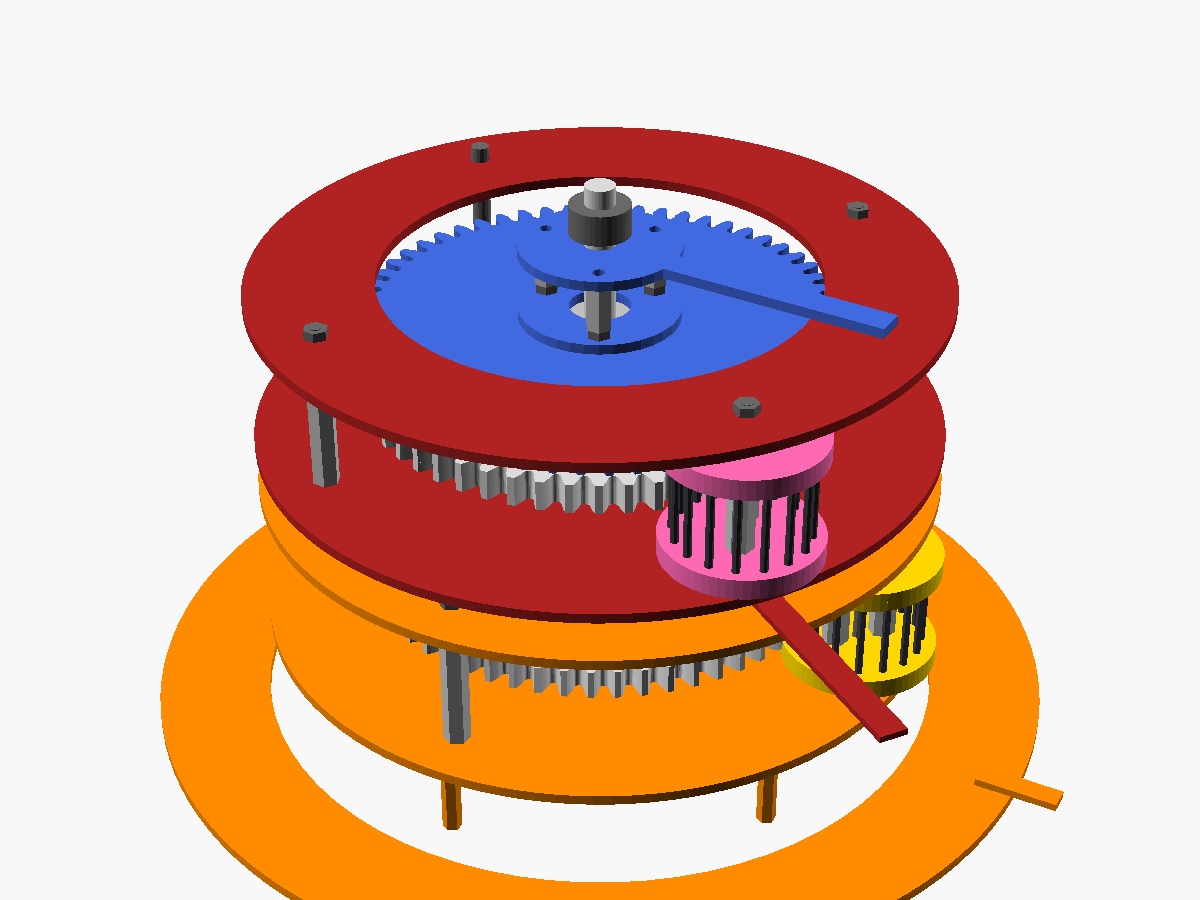
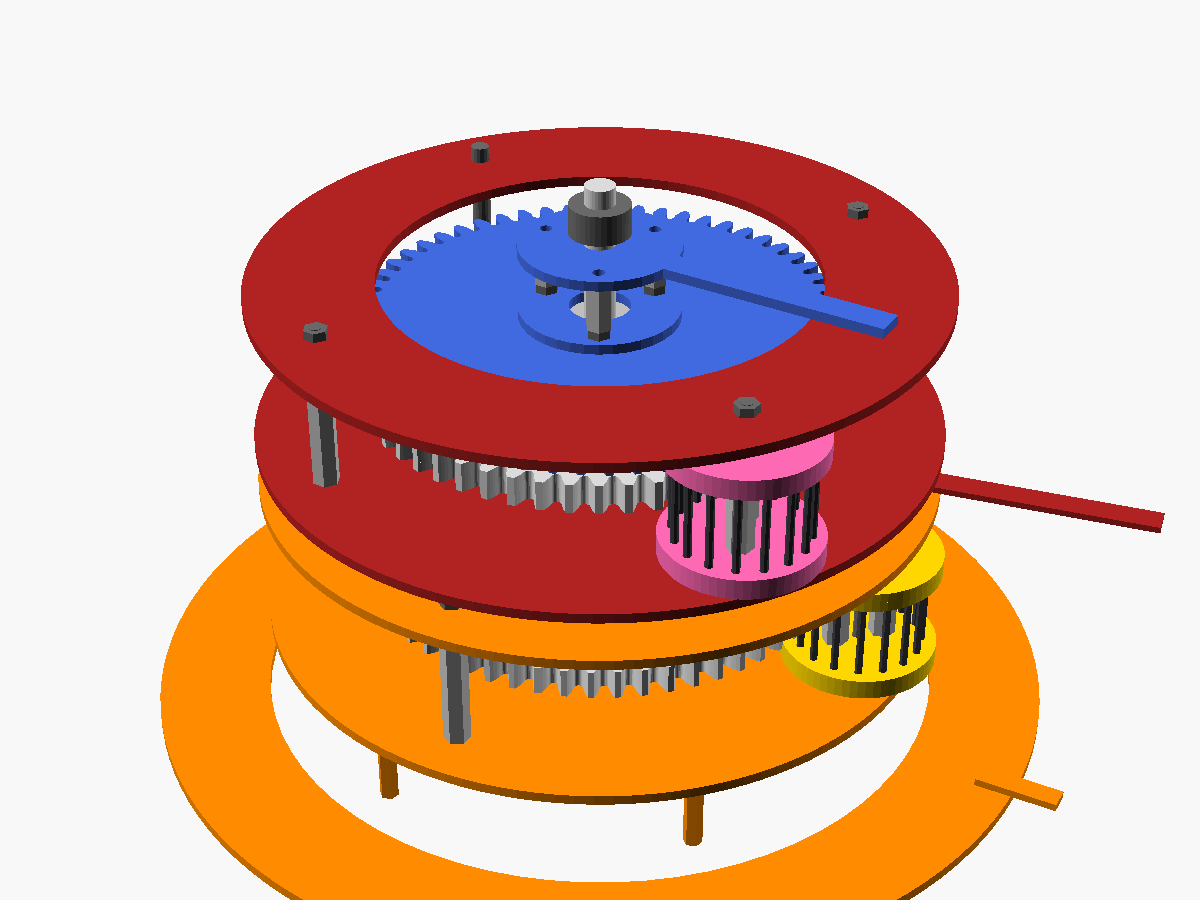
Clock train: ply3 parts script (suns x3 layers, carriers with lantern discs/covers/keepers nested inside), hands sketch
Claude-Session: https://claude.ai/code/session_01LQy87QnU21cWEAk5CN6jGY

diff --git a/marbles/clock/clock_train_parts.py b/marbles/clock/clock_train_parts.py
@@ -1,0 +1,185 @@
+#!/usr/bin/env python3
+"""Ply3 laser parts for the clock train (lantern version, clock_train.scad / clock_lantern.py), through quickcut.
+
+Files (marbles/gcode/), each zeroed at its bottom-left, W x H in the name = the real cut extent:
+  clock_sun_<stage>_<fixed|out>_cut3   one sun layer: cut it 3 times (3 identical layers per sun, M3-bolted)
+  clock_carrier_<stage>_back           back carrier + that stage's 2 lantern DISCS (pin holes) nested in its opening
+  clock_carrier_<stage>_front          front carrier + that stage's 2 lantern COVERS + 1 output-sun KEEPER ring nested inside
+Per stage: 3 + 3 sun layers, 2 carriers, 2 discs + 2 covers (one lantern), 2 keepers (one per side of the output sun:
+the front-carrier files give 2, one each).
+Hands are only sketched (views/clock_hands_sketch.png), no G-code yet.
+
+    python3 marbles/clock/clock_train_parts.py
+"""
+import math
+import sys
+from pathlib import Path
+
+from shapely import affinity
+from shapely.geometry import Point
+from shapely.ops import unary_union
+
+HERE = Path(__file__).resolve().parent
+sys.path.insert(0, str(HERE.parent))
+from laser_parts import gcode  # noqa: E402
+import clock_lantern as cl  # noqa: E402
+
+MAT = "ply3"
+A, P, TIE_D = cl.A, cl.P_PL, cl.TIE_D
+M3, M5, PIN_HOLE = 3.3, 5.3, cl.PIN_HOLE
+CAR_IN, CAR_OUT = 44.5, A + 14
+UP_R, ESC_R, MH_ANG = 50, 80, 45
+OUT = HERE.parent / "gcode"
+VIEWS = HERE.parent / "views"
+
+
+def circ(x, y, d, n=64):
+    return Point(x, y).buffer(d / 2, n)
+
+
+def polar(r, a_deg):
+    return r * math.cos(math.radians(a_deg)), r * math.sin(math.radians(a_deg))
+
+
+def holes(g, pts, d):
+    return g.difference(unary_union([circ(x, y, d, 24) for x, y in pts]))
+
+
+def sun_layer(g, kind, stage):
+    if kind == "fixed":
+        g = holes(g, [(0, 0)], 8.4)
+        return holes(g, [(sx * 15, sy * 27.5) for sx in (-1, 1) for sy in (-1, 1)], M3)          # 2 into the beam, 2 clamp
+    g = holes(g, [(0, 0)], 22.2)                                                                 # the 608
+    g = holes(g, [polar(16, 60 + 120 * k) for k in range(3)], M3)                                # keeper bolts
+    if stage == "minute":
+        g = holes(g, [polar(UP_R, 36 + 72 * k) for k in range(5)], M3)                           # standoffs to the hour carrier
+    return g
+
+
+def lantern_disc(rp, pins):
+    g = holes(circ(0, 0, 2 * cl_disc_r(), 128), [(0, 0)], 3.4)                                  # axle (it spins on it)
+    g = holes(g, [(0, -TIE_D), (0, TIE_D)], M3)                                                  # tie bolts
+    if pins:
+        g = holes(g, [polar(rp, k * 360 / P) for k in range(P)], PIN_HOLE)
+    return g
+
+
+def cl_disc_r():
+    return max(cl.pin_r(S) for S in cl.STAGES.values()) + PIN_HOLE / 2 + cl.RIM
+
+
+def keeper():
+    g = holes(circ(0, 0, 42, 128), [(0, 0)], 16)
+    return holes(g, [polar(16, 60 + 120 * k) for k in range(3)], M3)
+
+
+def carrier(stage, side):
+    rin = CAR_IN if side == "back" else A - cl_disc_r() + 1
+    g = circ(0, 0, 2 * CAR_OUT, 256).difference(circ(0, 0, 2 * rin, 256))
+    g = holes(g, [polar(A, a) for a in (0, 90, 270)], M3)                                        # planet axle, 2 tie posts
+    g = holes(g, [polar(A, 180)], M5)                                                            # counterweight bolt
+    if side == "back" and stage == "minute":
+        g = holes(g, [polar(ESC_R, 15 + 60 * k) for k in range(6)], M3)                          # escape wheel standoffs
+    if side == "back" and stage == "hour":
+        g = holes(g, [polar(UP_R, 36 + 72 * k) for k in range(5)], M3)                           # standoffs from the minute sun
+        g = holes(g, [polar(r, MH_ANG) for r in (54, 66)], M3)                                   # minute hand
+    return g, rin
+
+
+def write(stem_base, polys, note):
+    T, kerf, _ = gcode.fit(MAT)
+    job = gcode.job(MAT)
+    gs = [p.buffer(kerf / 2, join_style=2) for p in polys]
+    x0 = min(g.bounds[0] for g in gs); y0 = min(g.bounds[1] for g in gs)
+    x1 = max(g.bounds[2] for g in gs); y1 = max(g.bounds[3] for g in gs)
+    cuts = []
+    for g in gs:
+        cuts += [gcode.Polyline([(x - x0, y - y0) for x, y in r.coords], True) for r in g.interiors]
+        cuts.append(gcode.Polyline([(x - x0, y - y0) for x, y in g.exterior.coords], True))
+    cuts = gcode.order(cuts)
+    stem = gcode.name(stem_base, x1 - x0, y1 - y0, MAT)
+    lines = gcode.preamble(job, title=f"{stem} -- marbles/clock/clock_train_parts.py",
+                           notes=[note, f"{MAT}: T {T}, kerf {kerf}; X0 Y0 = bottom-left"])
+    for i, c in enumerate(cuts, 1):
+        lines += gcode.cut(c, job, i, len(cuts))
+    p = gcode.write(OUT / f"{stem}.gcode", lines)
+    print(f"  {p.name}: {len(cuts)} cuts, {x1 - x0:.2f} x {y1 - y0:.2f}")
+    return p, [affinity.translate(g, -x0, -y0) for g in polys]
+
+
+def main():
+    files = []
+    dr = cl_disc_r()
+    for name, S in cl.STAGES.items():
+        st = cl.stage(S)
+        rp = st["A"]["r"]
+        for kind, lay in (("fixed", "A"), ("out", "B")):
+            g = sun_layer(st[lay]["g"], kind, name)
+            files.append(write(f"clock_sun_{name}_{kind}{st[lay]['Z']}_cut3", [g],
+                               f"{name} {'FIXED' if kind == 'fixed' else 'OUTPUT'} sun, {st[lay]['Z']} teeth (lantern pins r {rp:.3f}): "
+                               f"one layer, cut 3"))
+        back, rin = carrier(name, "back")
+        d = 21.5                                                     # 2 discs side by side in the r 44.5 opening
+        assert d - dr > 1 and d + dr < rin - 2
+        discs = [affinity.translate(lantern_disc(rp, True), sx * d, 0) for sx in (-1, 1)]
+        files.append(write(f"clock_carrier_{name}_back", discs + [back],
+                           f"{name} BACK carrier + the 2 lantern DISCS ({P} pin holes on r {rp:.3f}) nested in its opening"))
+        front, rin = carrier(name, "front")
+        d = 31                                                       # 3 parts at 120 deg in the opening
+        assert d * math.sqrt(3) > 2 * 21 + 2 and d + 21 < rin - 2
+        inner = [lantern_disc(rp, False), lantern_disc(rp, False), keeper()]
+        inner = [affinity.translate(q, *polar(d, 90 + 120 * k)) for k, q in enumerate(inner)]
+        files.append(write(f"clock_carrier_{name}_front", inner + [front],
+                           f"{name} FRONT carrier + the 2 lantern COVERS + 1 output-sun keeper ring nested in its opening"))
+    return files
+
+
+def preview(files):
+    import matplotlib; matplotlib.use("Agg")
+    import matplotlib.pyplot as plt
+    n = len(files)
+    fig, axs = plt.subplots(2, (n + 1) // 2, figsize=(4.2 * ((n + 1) // 2), 9))
+    for ax, (p, polys) in zip(axs.flat, files):
+        for g in sorted(polys, key=lambda q: -q.area):           # big first, so nested parts draw on top
+            for q in getattr(g, "geoms", [g]):
+                ax.fill(*q.exterior.xy, fc="burlywood", ec="k", lw=.4)
+                for r in q.interiors:
+                    ax.fill(*r.xy, fc="w", ec="k", lw=.4)
+        ax.set_aspect("equal"); ax.set_title(p.stem.replace("clock_", ""), fontsize=8); ax.tick_params(labelsize=6)
+    for ax in list(axs.flat)[n:]:
+        ax.axis("off")
+    plt.tight_layout(); out = VIEWS / "clock_train_parts.png"; plt.savefig(out, dpi=80)
+    return out
+
+
+def hands_sketch():
+    """first-draft hands (no G-code): minute hand on the hour carrier, hour hand on the hour sun's spacers, seconds
+    pointer on the escape wheel rim"""
+    import matplotlib; matplotlib.use("Agg")
+    import matplotlib.pyplot as plt
+    from shapely.geometry import Polygon
+    fig, axs = plt.subplots(1, 3, figsize=(16, 6))
+    # minute hand: a slim taper from r 44 to r 146, bolted at r 54 / 66 (MH_ANG on the carrier), counterpoise tail-less
+    mh = Polygon([(44, -6), (70, -5), (146, -1.2), (149, 0), (146, 1.2), (70, 5), (44, 6)])
+    mh = holes(mh, [(54, 0), (66, 0)], M3)
+    # hour hand: round hub r 21 on the 3 sun bolts (r 16), a leaf to r 80
+    hh = unary_union([circ(0, 0, 42, 128), Polygon([(15, -7), (55, -9), (74, -4), (80, 0), (74, 4), (55, 9), (15, 7)])])
+    hh = holes(hh, [(0, 0)], 8.4); hh = holes(hh, [polar(16, 60 + 120 * k) for k in range(3)], M3)
+    # seconds pointer: an arrow on the escape wheel rim (2 M3)
+    sp = holes(Polygon([(108, -5), (126, -5), (126, -3), (134, 0), (126, 3), (126, 5), (108, 5)]), [(112, 0), (120, 0)], M3)
+    for ax, g, t in zip(axs, (mh, hh, sp), ("MINUTE hand (on the hour carrier's back face, 2 M3)",
+                                            "HOUR hand (on spacers on the hour sun's 3 bolts)",
+                                            "SECONDS pointer (on the escape wheel rim, 2 M3)")):
+        ax.fill(*g.exterior.xy, fc="0.85", ec="k")
+        for r in g.interiors:
+            ax.fill(*r.xy, fc="w", ec="k")
+        ax.plot([0], [0], "k+", ms=12); ax.set_aspect("equal"); ax.set_title(t, fontsize=10); ax.grid(alpha=.3)
+        ax.set_xlabel("mm from the rod")
+    fig.suptitle("Clock hands, FIRST DRAFT (no G-code yet): ply3, shapes to be refined", fontsize=12)
+    plt.tight_layout(); out = VIEWS / "clock_hands_sketch.png"; plt.savefig(out, dpi=80)
+    return out
+
+
+if __name__ == "__main__":
+    fs = main()
+    print(preview(fs).name, hands_sketch().name)

diff --git a/marbles/clock/clock_train_drive.py b/marbles/clock/clock_train_drive.py
@@ -10,7 +10,7 @@ import matplotlib.image as mi  # noqa: E402
 import clock_lantern as cl  # noqa: E402
 
 T, A, ZONE, L_SUN, N_PL = cl.T, cl.A, cl.ZONE, cl.L_SUN, cl.N_PL
-CB, FC, GAP, CAR_IN, UP_R, CAR_OUT = 3.0, 3.0, 24, 44.5, 48, cl.A + 14
+CB, FC, GAP, CAR_IN, UP_R, CAR_OUT = 3.0, 3.0, 24, 44.5, 50, cl.A + 14
 SP_UP, SP_HAND, SP_R, TIE_D = 20, 15, cl.SP_D / 2, cl.TIE_D
 BEAM_REACH = 43.01            # 1515 beam corner from the rod: hypot(25, 20 + 15)
 COL = dict(fix="0.80", sec="darkorange", mpl="gold", minute="firebrick", hpl="hotpink", hour="royalblue", hw="0.25", pin="0.15")
